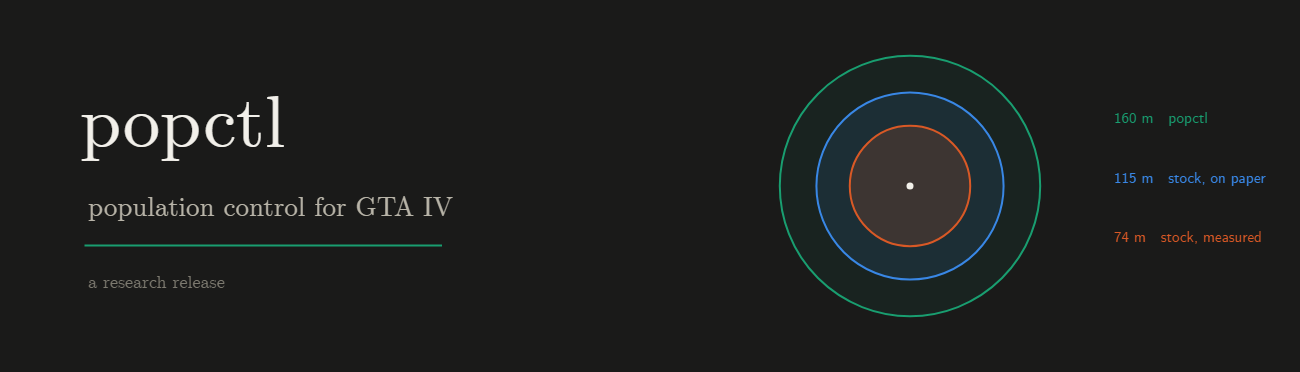
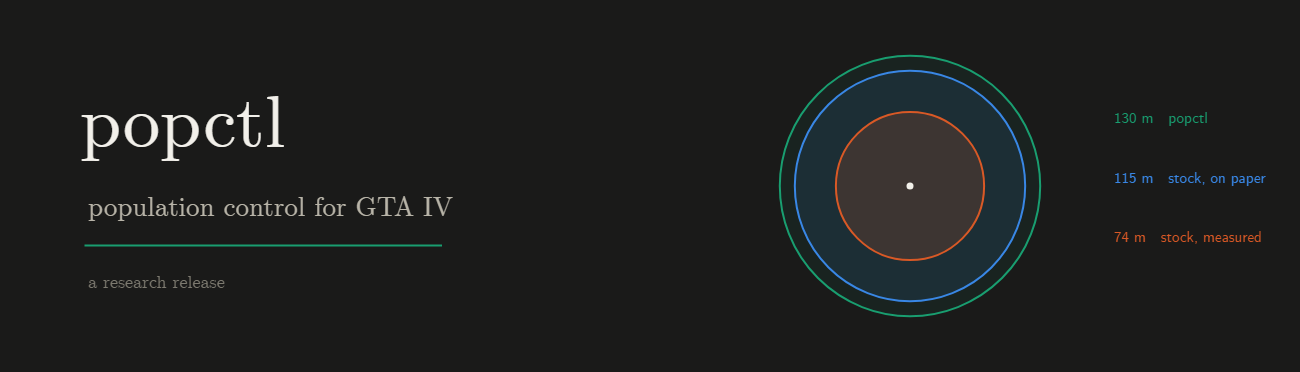
docs: header and thumbnail at the shipped 130 m
Claude-Session: https://claude.ai/code/session_01VN3JX13xZ2rZaY2xzr2W2J

Changed region(s): [[0.6154, 0.207, 0.8, 0.828], [0.6769, 0.1774, 0.7385, 0.207]]

diff --git a/docs/make_header.py b/docs/make_header.py
@@ -33,8 +33,8 @@ cx, cy = 70.0, 50.0
 ar = H / W  # keep circles round in axis units
 
 
-# biggest ring (160 m) is 35 y-units in radius, so the rings sit inside the banner
-Y_PER_M = 35.0 / 160.0
+# biggest ring (130 m) is 35 y-units in radius, so the rings sit inside the banner
+Y_PER_M = 35.0 / 130.0
 
 
 def ring(r_m, color, fill, dash=None, width=2):
@@ -45,14 +45,14 @@ def ring(r_m, color, fill, dash=None, width=2):
                   fillcolor=fill, layer="below")
 
 
-ring(160, AQUA, "rgba(25,158,112,0.08)")
+ring(130, AQUA, "rgba(25,158,112,0.08)")
 ring(115, BLUE, "rgba(57,135,229,0.11)")
 ring(74, ORANGE, "rgba(217,89,38,0.18)")
 
 fig.add_trace(go.Scatter(x=[cx], y=[cy], mode="markers",
                          marker=dict(size=7, color=INK), hoverinfo="skip"))
 
-for y, col, txt in ((68, AQUA, "160 m   popctl"),
+for y, col, txt in ((68, AQUA, "130 m   popctl"),
                     (52, BLUE, "115 m   stock, on paper"),
                     (36, ORANGE, "74 m   stock, measured")):
     label(fig, 85.5, y, txt, 15, col, SANS, anchor="left")

diff --git a/docs/make_thumbnail.py b/docs/make_thumbnail.py
@@ -25,7 +25,7 @@ ar = H / W
 
 # ---- right: the keep radius, thick enough to read tiny
 cx, cy = 71.0, 50.0
-Y_PER_M = 40.0 / 160.0
+Y_PER_M = 40.0 / 130.0
 
 
 def ring(r_m, color, fill, width):
@@ -35,7 +35,7 @@ def ring(r_m, color, fill, width):
                   line=dict(color=color, width=width), fillcolor=fill, layer="below")
 
 
-ring(160, AQUA, "rgba(25,158,112,0.13)", 9)
+ring(130, AQUA, "rgba(25,158,112,0.13)", 9)
 ring(115, BLUE, "rgba(57,135,229,0.22)", 9)
 ring(74, ORANGE, "rgba(217,89,38,0.55)", 7)
 
@@ -47,7 +47,7 @@ label(fig, 7.5, 43, "stay loaded further out", 50, INK2, SERIF, anchor="left")
 
 label(fig, 7.5, 27, "74 m", 86, ORANGE, SANS, anchor="left")
 label(fig, 21.5, 26, "to", 46, MUTED, SERIF, anchor="left")
-label(fig, 27.5, 27, "160 m", 86, AQUA, SANS, anchor="left")
+label(fig, 27.5, 27, "130 m", 86, AQUA, SANS, anchor="left")
 
 fig.write_image(os.path.join(OUT, "thumbnail.png"), scale=1)
 print("wrote", os.path.join(OUT, "thumbnail.png"))
